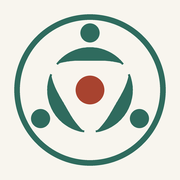
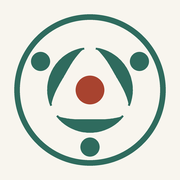
标识：三人方向改为一人在正下方托底、两人在左上右上（用户意见）

Changed region(s): [[0.1667, 0.1111, 0.8333, 0.8889]]

diff --git a/scripts/make-logo.py b/scripts/make-logo.py
@@ -18,7 +18,7 @@ RING_R, RING_W = 92.0, 7.0      # 外圆
 CORE_R = 18.0                   # 中心圆点
 ARM_RO, ARM_W, ARM_SPAN = 54.0, 17.0, 52.0   # 身体弧：外半径、最厚处、半张角（度）
 HEAD_D, HEAD_R = 72.0, 12.0     # 头：离圆心距离、半径
-ANGLES = [-90.0, 30.0, 150.0]   # 三个人的方向（上、右下、左下）
+ANGLES = [90.0, 210.0, 330.0]   # 三个人的方向（下、左上、右上）：一人在正下方托底
 
 
 def arm_points(theta_deg, n=48):
